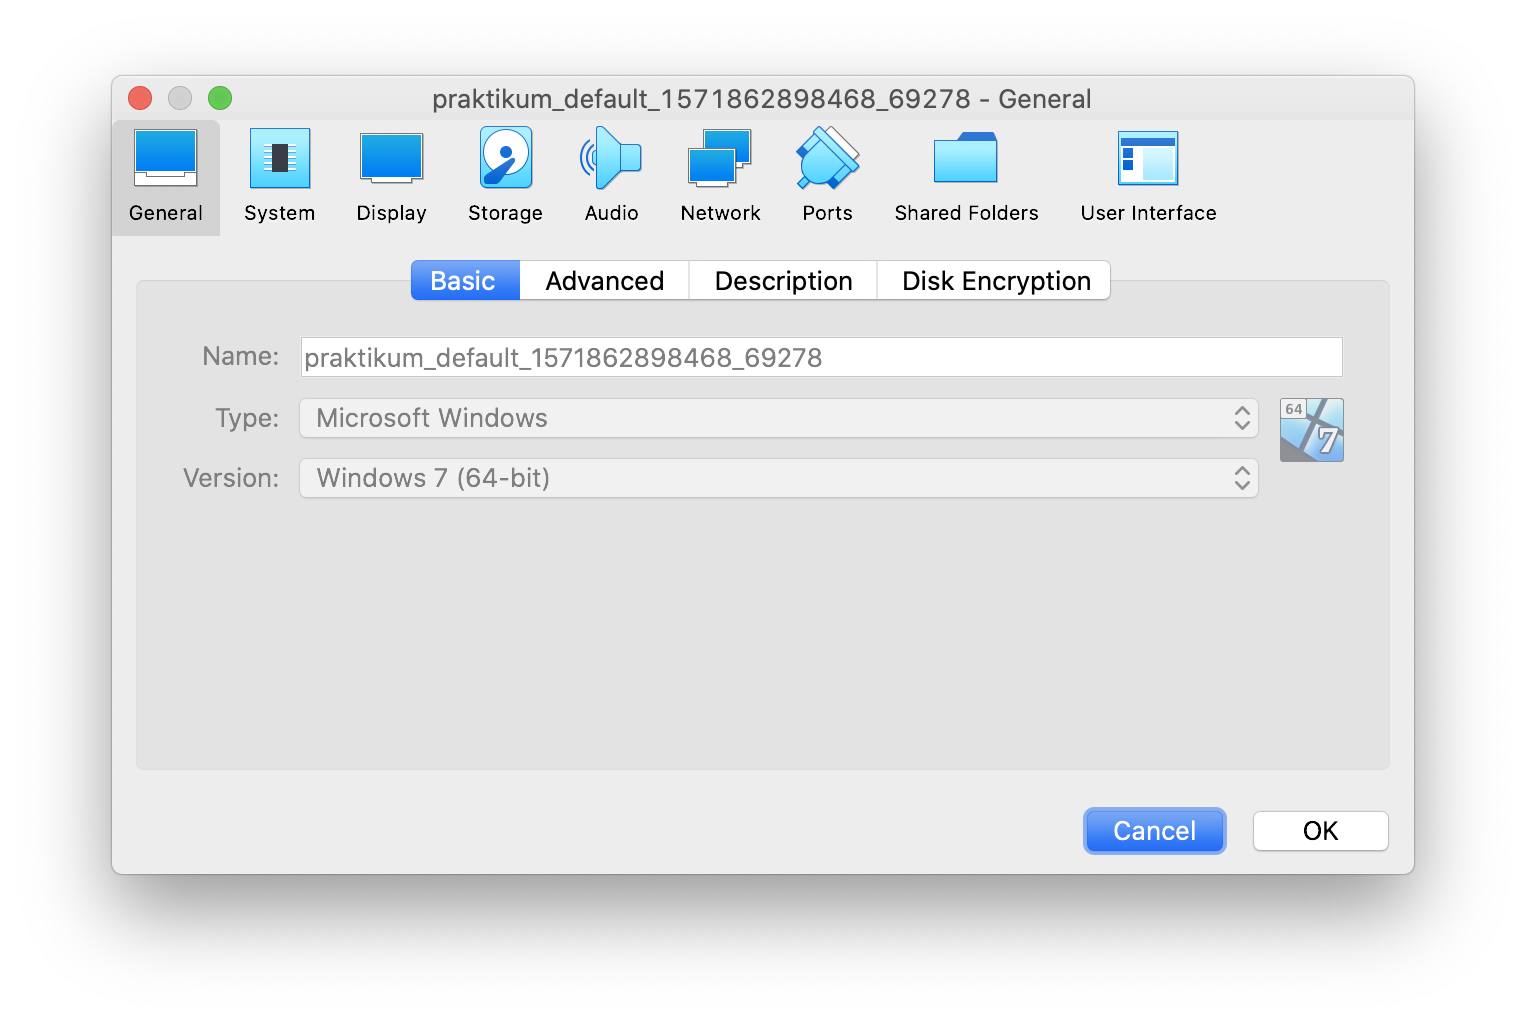
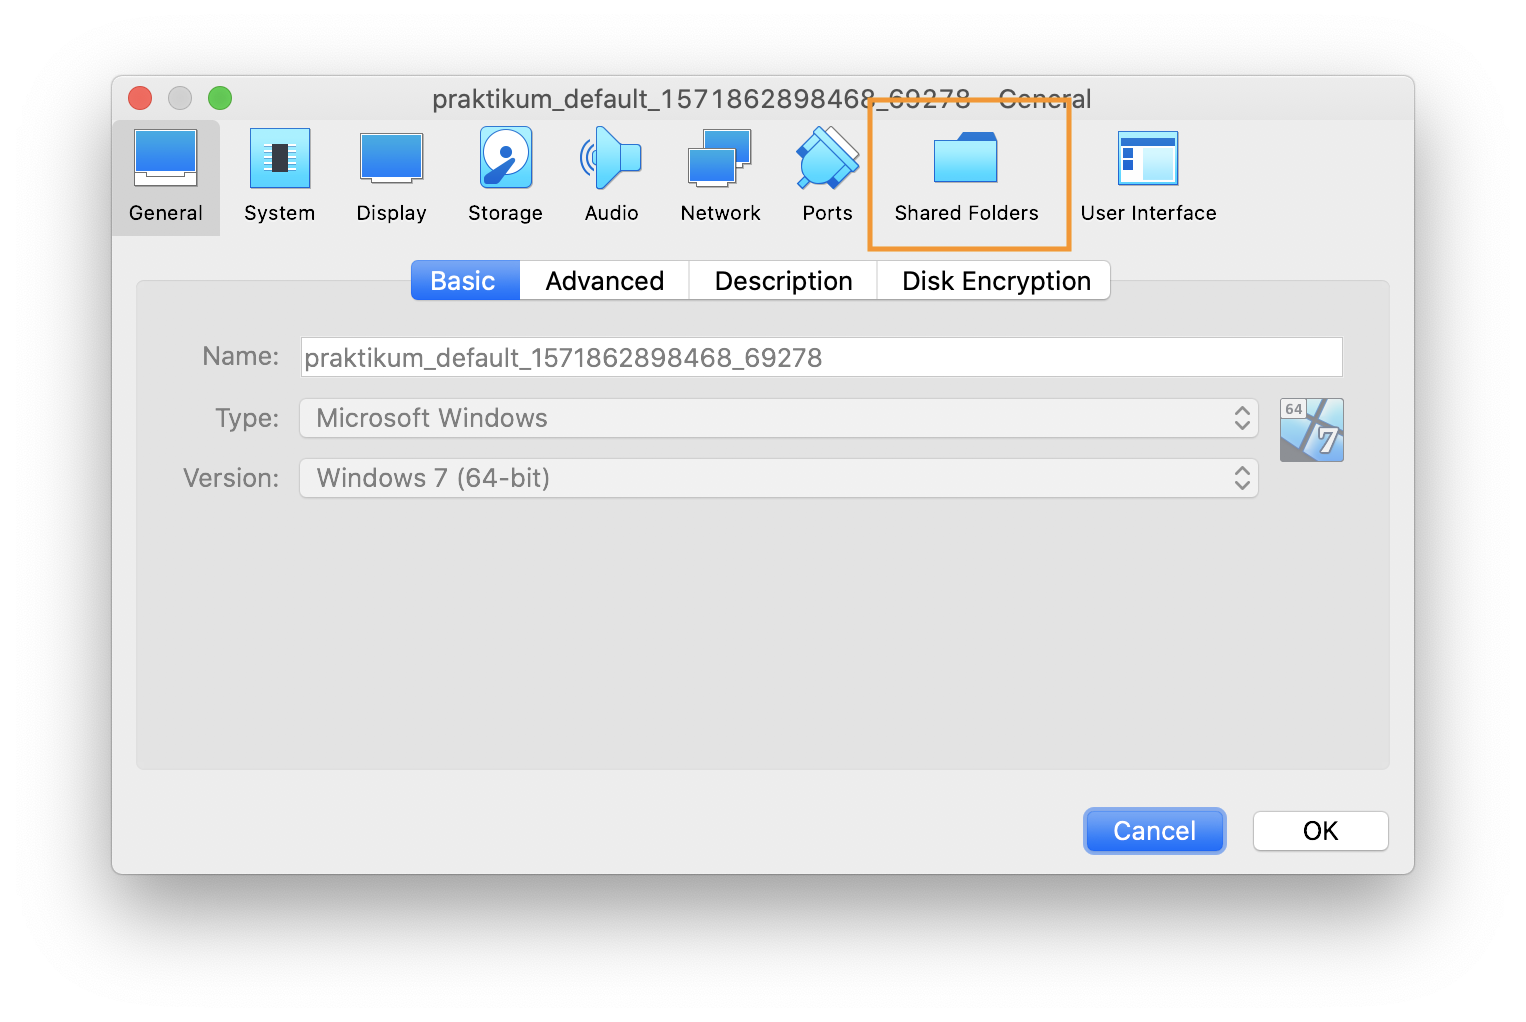
:sparkles: Update images

diff --git a/README.md b/README.md
@@ -61,11 +61,15 @@ Praktikum effizient teilnehmen zu lassen.
 
    ![](images/5_Shared_Folder_Final.png)
 
+1. Navigieren zu dem Einstellungen von VirtualBox.
+
+   ![](images/6_Settings_General.png)
+
 1. Weitere Einstellungen zu Leistung der VM
 
-   ![](images/6_Settings_System.png)
+   ![](images/7_Settings_System.png)
 
-   ![](images/7_Settings_Processor.png)
+   ![](images/8_Settings_Processor.png)
 
 ## Installation Ubuntu und Linux Mint
 
@@ -94,8 +98,13 @@ Praktikum effizient teilnehmen zu lassen.
 
    ![](images/5_Shared_Folder_Final.png)
 
+1. Navigieren zu dem Einstellungen von VirtualBox.
+
+   ![](images/6_Settings_General.png)
+
+
 1. Weitere Einstellungen zu Leistung der VM
 
-   ![](images/6_Settings_System.png)
+   ![](images/7_Settings_System.png)
 
-   ![](images/7_Settings_Processor.png)
+   ![](images/8_Settings_Processor.png)
